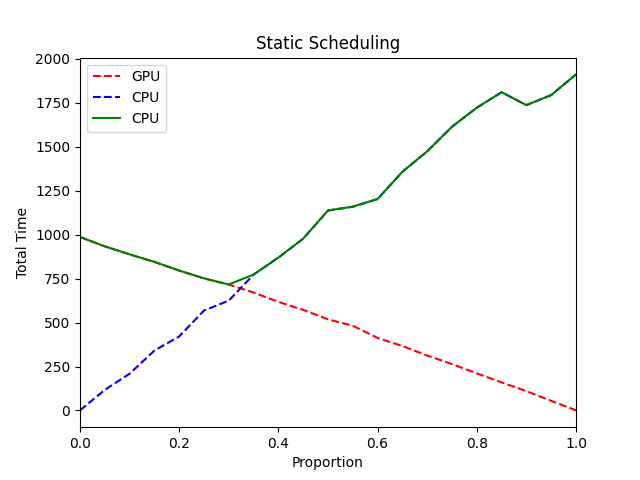
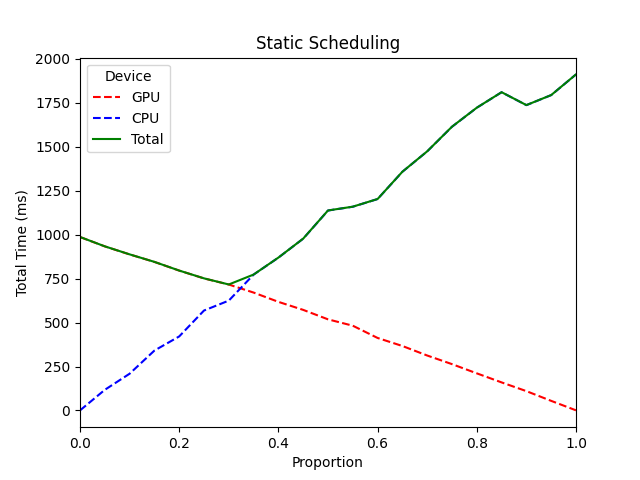
plots

diff --git a/Laboratory-6/plot_static.py b/Laboratory-6/plot_static.py
@@ -1,5 +1,6 @@
 import pandas as pd
 import matplotlib.pyplot as plt
+import numpy as np
 
 import os, sys
 
@@ -26,7 +27,7 @@ print(gpu_data)
 # Create a plot with dashed lines
 plt.plot(labels, gpu_data, color='red', linestyle='--', label="GPU")
 plt.plot(labels, cpu_data, color='blue', linestyle='--', label="CPU")
-plt.plot(labels, total_data, color='green', label="CPU")
+plt.plot(labels, total_data, color='green', label="Total")
 
 # Set labels and title
 plt.xlabel('Proportion')
@@ -44,3 +45,22 @@ base_filename, _ = os.path.splitext(csv_file)
 
 # Save the plot as a PNG file with the same base filename
 plt.savefig(base_filename + '.png')
+
+plt.figure()
+# imbalance of the gpu
+
+imb = (total_data - np.minimum(gpu_data, cpu_data)) / total_data
+plt.plot(labels, imb, color='red', linestyle='--')
+
+# Set labels and title
+plt.xlabel('Proportion')
+plt.ylabel('Imbalance')
+plt.title('Static Scheduling Imbalance')
+
+# Set the x-axis range from 0 to 1
+plt.xlim(0, 1)
+
+
+# Save the plot as a PNG file with the same base filename
+plt.savefig(base_filename + '-imb.png')
+
